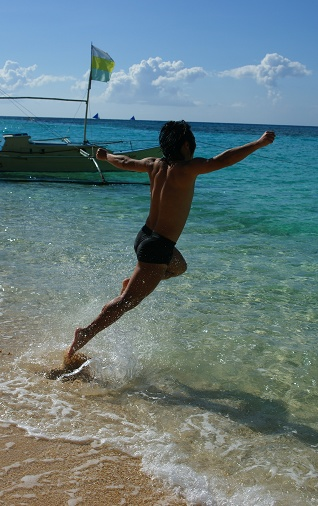
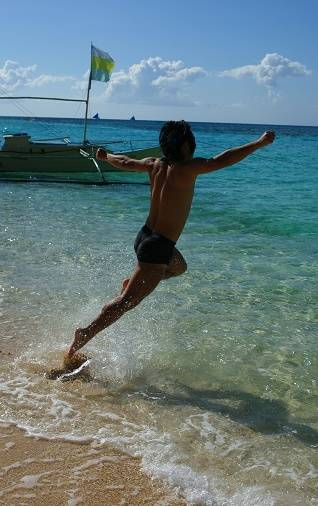
Enhance: replace the home pic with smaller ones.

Changed region(s): [[0.3396, 0.1186, 0.3679, 0.1482], [0.283, 0.2964, 0.3113, 0.3261], [0.1132, 0.7708, 0.1415, 0.8004]]

diff --git a/themes/wind/views/home.html.php b/themes/wind/views/home.html.php
@@ -1,7 +1,7 @@
 <?php defined("SYSPATH") or die("No direct script access.") ?>
 <div id="home_pictures">
     <ul  class="Slides" id="Slides">
-        <? $index = rand(0, 3); ?>
+        <? $index = rand(0, 4); ?>
         <li><img style="width: 318px; height: 510px;"src="<?= url::file("themes/wind/homepic/site$index/home-pic1.png") ?>"/></li>
         <li><img style="width: 318px; height: 510px;"src="<?= url::file("themes/wind/homepic/site$index/home-pic2.png") ?>"/></li>
         <li><img style="width: 318px; height: 510px;"src="<?= url::file("themes/wind/homepic/site$index/home-pic3.png") ?>"/></li>
